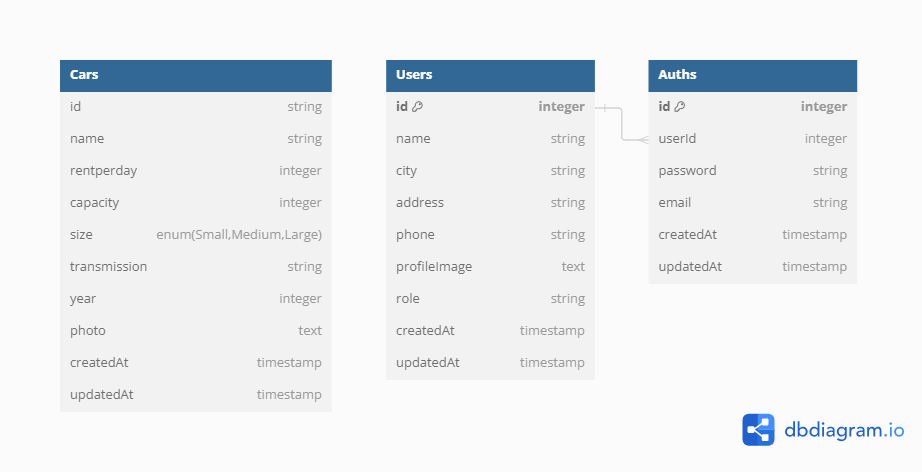
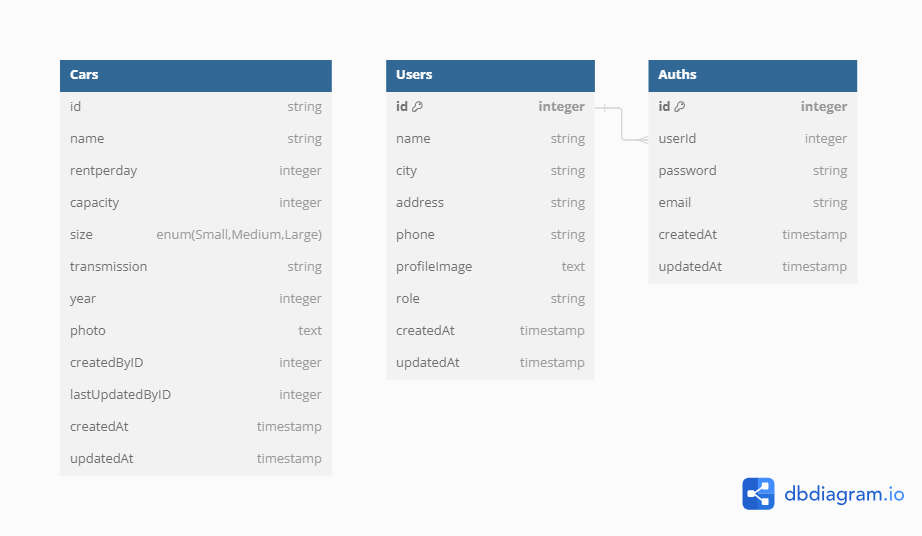
Fixing: Db-Diagram Table Field

diff --git a/backend/migrations/20240430045744-create-auth.js b/backend/migrations/20240430045744-create-auth.js
@@ -3,11 +3,15 @@
 module.exports = {
   async up(queryInterface, Sequelize) {
     await queryInterface.createTable("Auths", {
-      userId: {
-        type: Sequelize.INTEGER,
+      id: {
         allowNull: false,
         autoIncrement: true,
         primaryKey: true,
+        type: Sequelize.INTEGER,
+      },
+      userId: {
+        type: Sequelize.INTEGER,
+        allowNull: false,
       },
       email: {
         type: Sequelize.STRING,

diff --git a/backend/models/auth.js b/backend/models/auth.js
@@ -11,12 +11,13 @@ module.exports = (sequelize, DataTypes) => {
   }
   Auth.init(
     {
-      userId: {
+      id: {
         type: DataTypes.INTEGER,
         primaryKey: true,
-        autoIncrement: true,
         allowNull: false,
+        autoIncrement: true,
       },
+      userId: DataTypes.INTEGER,
       email: {
         type: DataTypes.STRING,
         allowNull: false,
